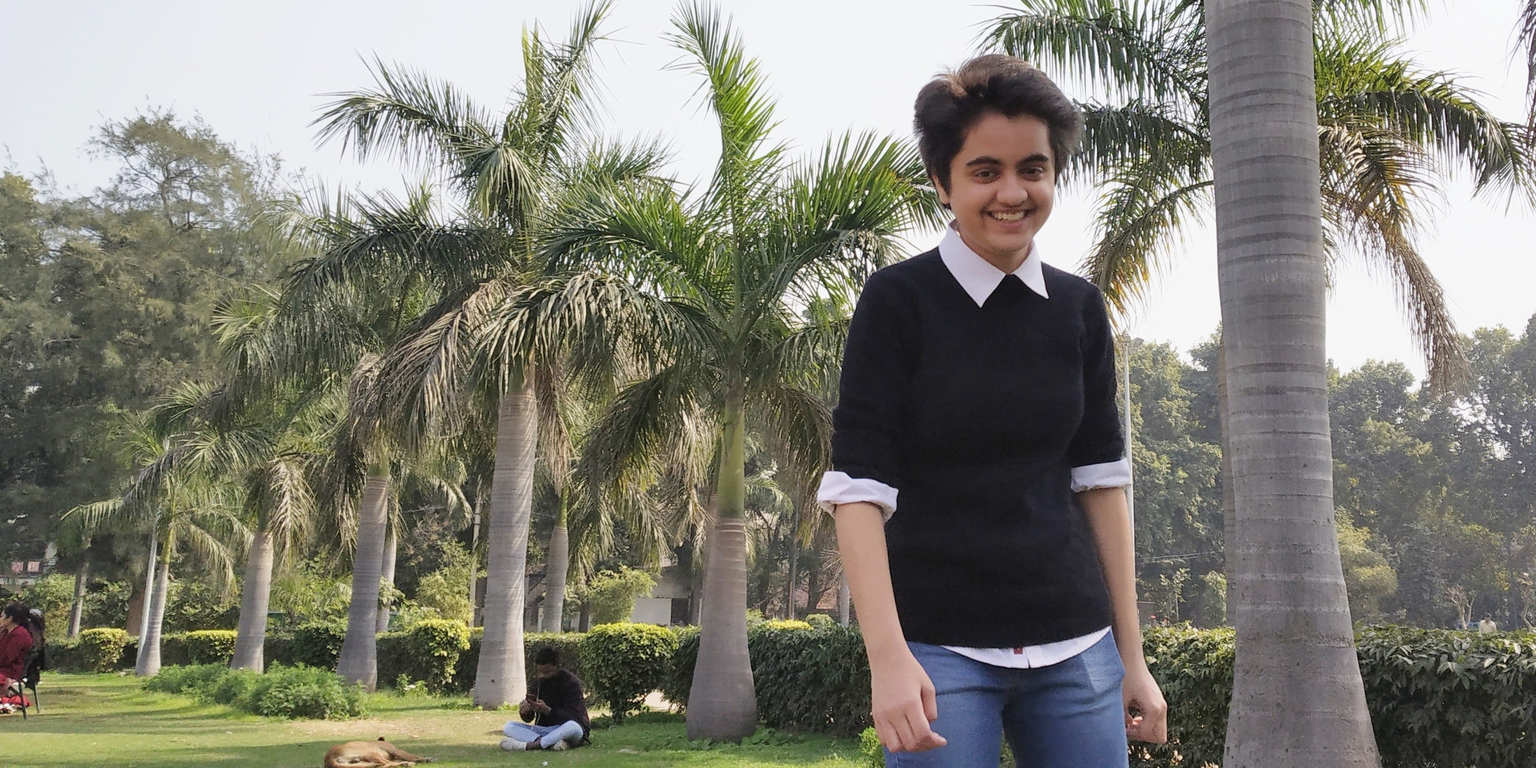
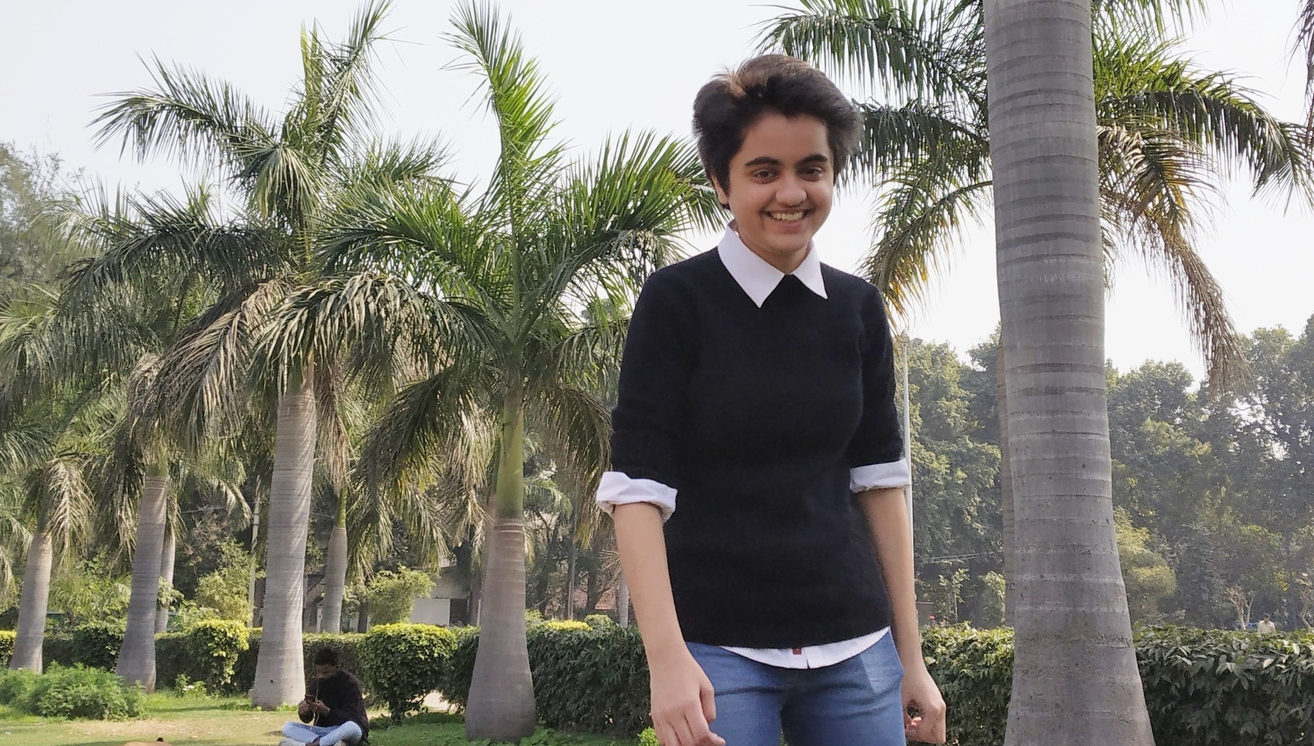
updated big pic and resume tenses

diff --git a/index.html b/index.html
@@ -230,8 +230,8 @@
               <p><em>Raahee</em></p>
               <ul>
                 <li>Raahee is a women led mental health start up based in Delhi</li>
-                <li>I was a part of their app team</li>
-                <li>I built interactive UI using flutter with firebase backend</li>
+                <li>Was a part of their app team</li>
+                <li>Built interactive UI using flutter with firebase backend</li>
               </ul>
             </div>
             <div class="resume-item">
